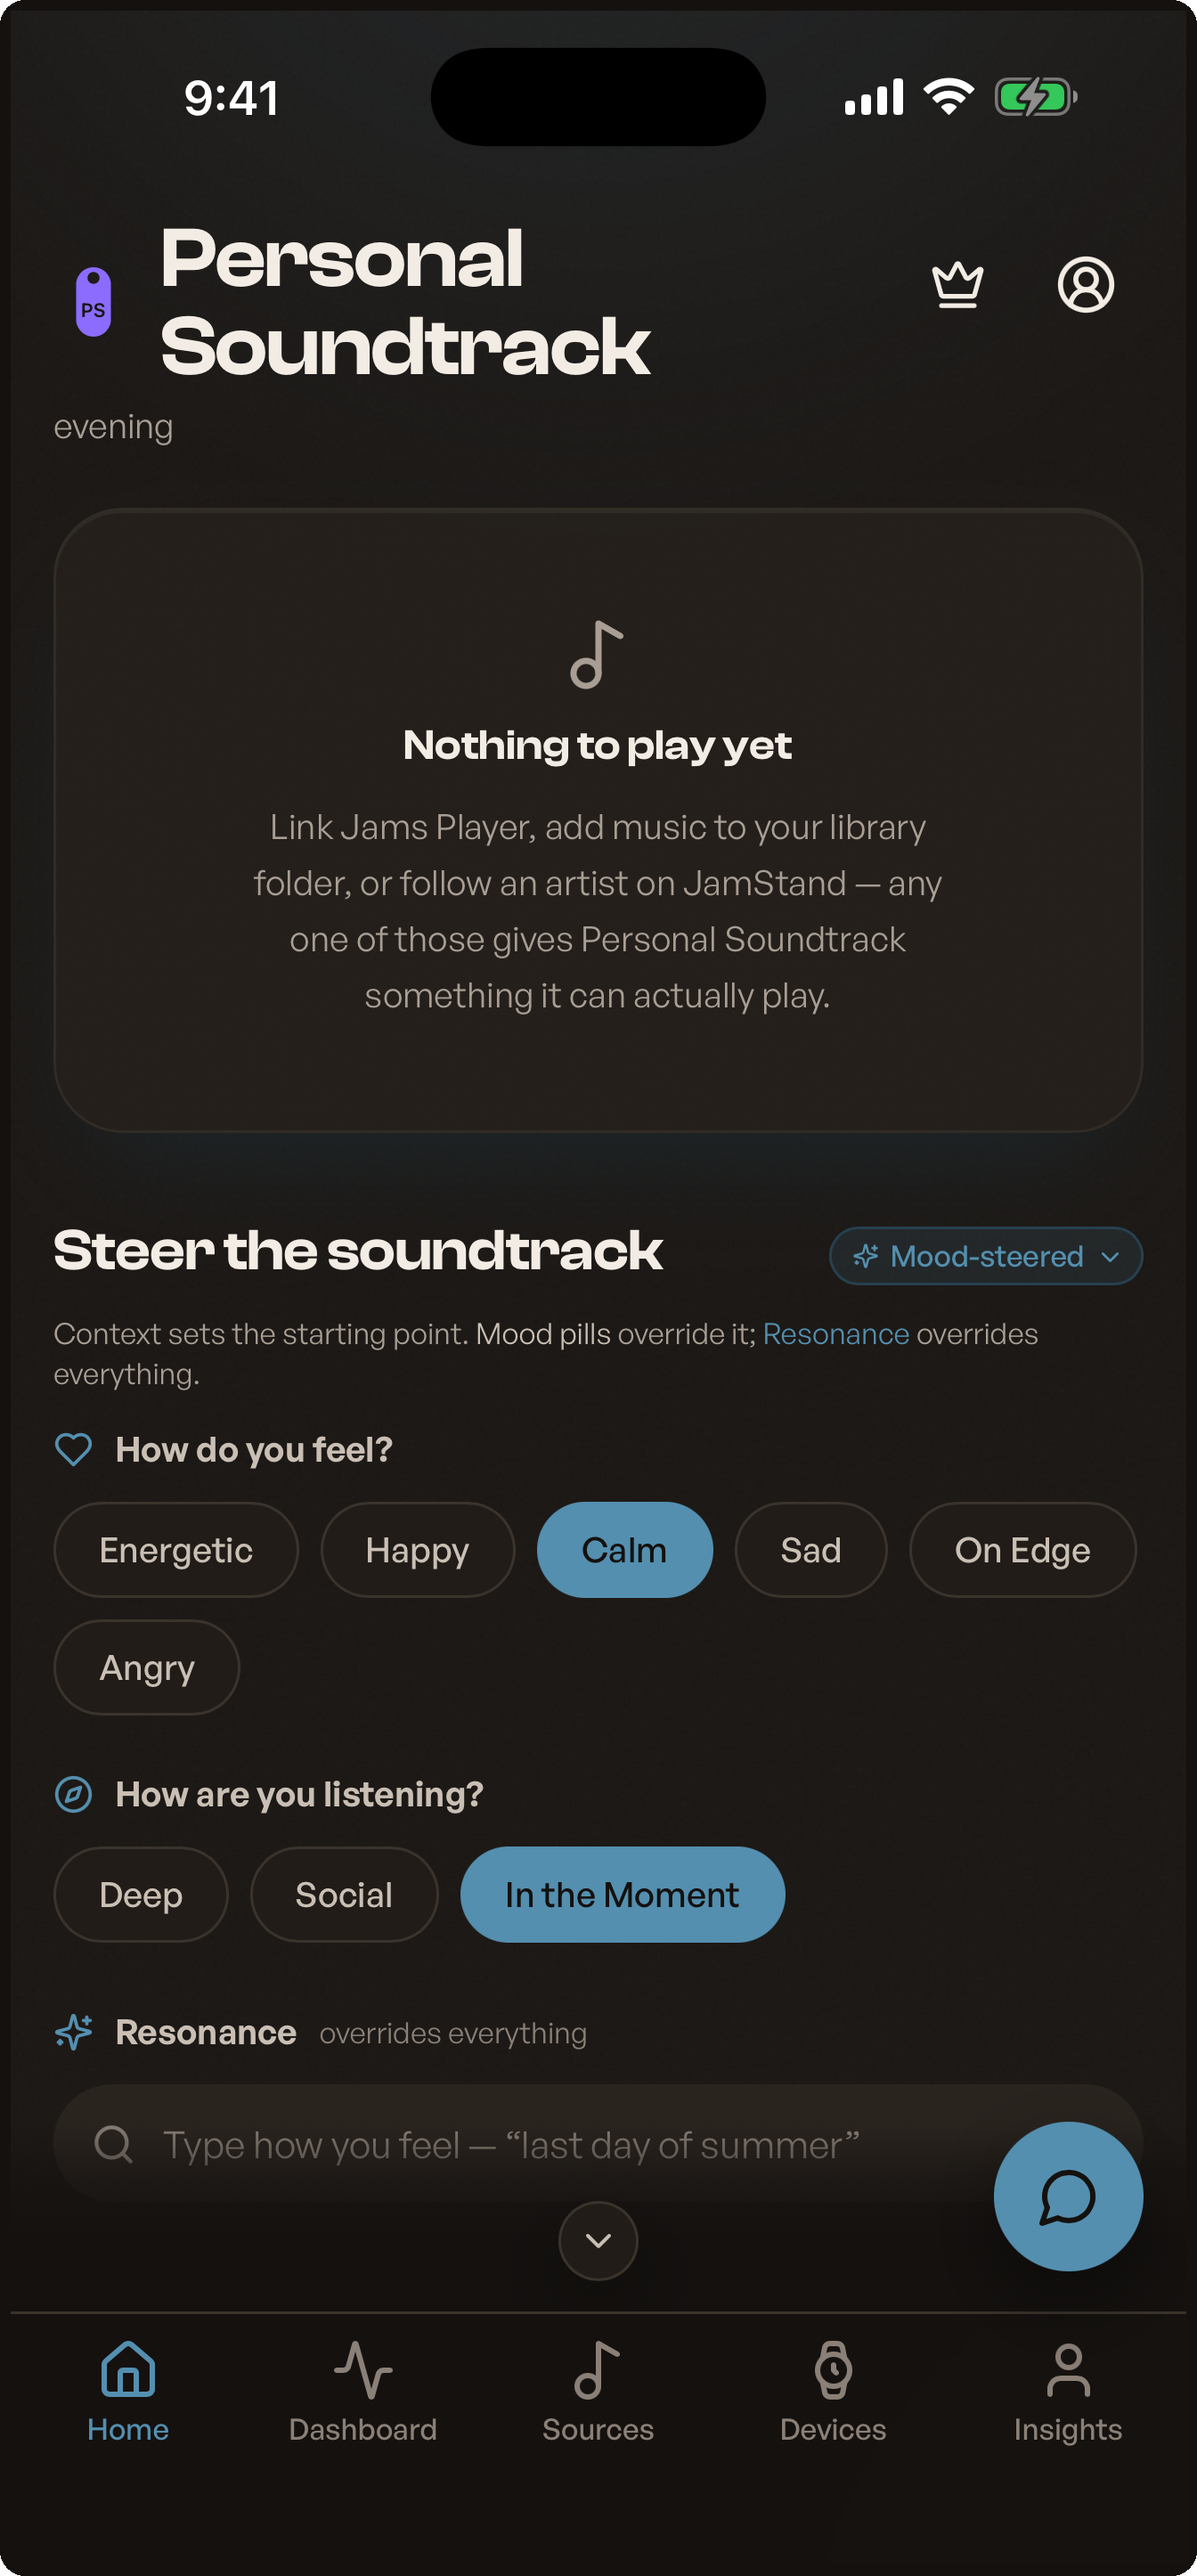
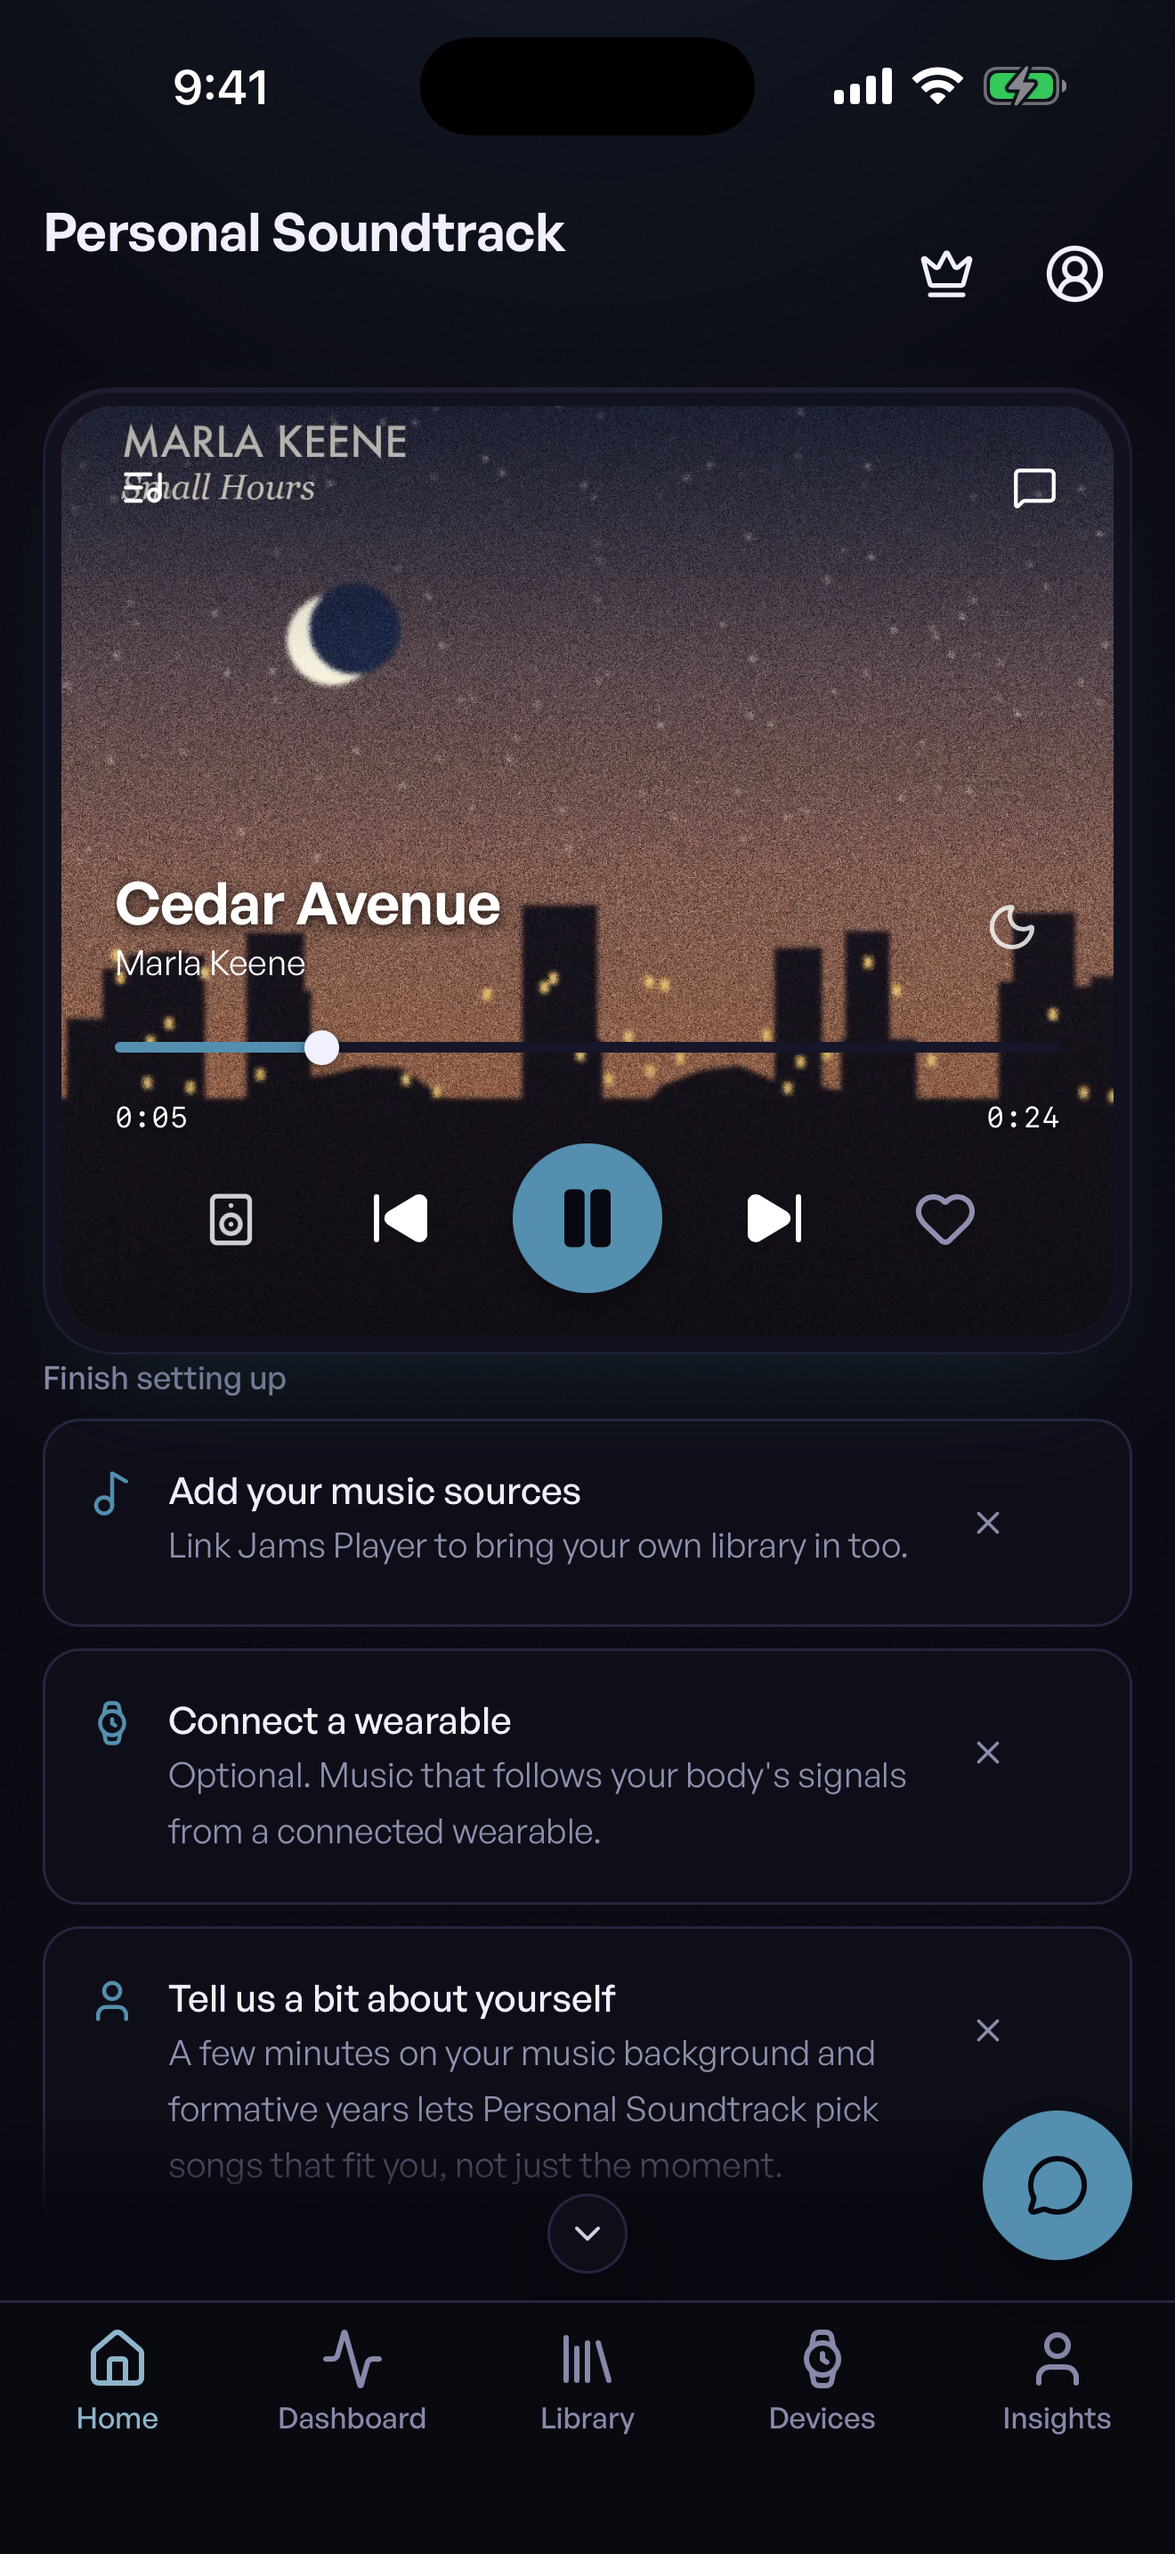
PS Home screenshot: demo song playing

diff --git a/ps/index.html b/ps/index.html
@@ -32,7 +32,7 @@
 </div></section>
 <div id="moments" class="visually-hidden"></div>
 <section class="moment"><div class="wrap moment__inner"><div class="moment__copy"><span class="eyebrow">P1</span><h3 class="moment__title">After the workout</h3><p class="moment__sentence">Just finished a run? The picks come in brighter. Recovery day? Gentler.</p></div><div class="moment__media"><figure class="slot slot--phone" data-moment="P1" data-alt="Just finished a run? The picks come in brighter. Recovery day? Gentler."><span class="slot__id">P1</span><figcaption class="slot__note">Home now playing after activity + Your Context Activity / Heart Rate rows · founder device</figcaption><span class="slot__flag">real capture from the running app, or this slot stays empty</span></figure></div></div></section>
-<section class="moment moment--flip"><div class="wrap moment__inner"><div class="moment__media"><figure class="slot slot--phone" data-moment="P2"><picture><source type="image/webp" srcset="../captures/P2-iphone-dark.webp"><img src="../captures/P2-iphone-dark.png" alt="Pick a feeling for the next hour. The soundtrack holds it." loading="lazy"></picture></figure></div><div class="moment__copy"><span class="eyebrow">P2</span><h3 class="moment__title">An hour of focus</h3><p class="moment__sentence">Pick a feeling for the next hour. The soundtrack holds it.</p></div></div></section>
+<section class="moment moment--flip"><div class="wrap moment__inner"><div class="moment__media"><figure class="slot slot--phone" data-moment="P2"><picture><source type="image/webp" srcset="../captures/P2-iphone-dark.webp"><img src="../captures/P2-iphone-dark.png" alt="Open the app and your soundtrack is right there. Add your library and a wearable whenever you like." loading="lazy"></picture></figure></div><div class="moment__copy"><span class="eyebrow">P2</span><h3 class="moment__title">Open it and it plays</h3><p class="moment__sentence">Open the app and your soundtrack is right there. Add your library and a wearable whenever you like.</p></div></div></section>
 <section class="moment"><div class="wrap moment__inner"><div class="moment__copy"><span class="eyebrow">P3</span><h3 class="moment__title">Your library, on your phone</h3><p class="moment__sentence">Bring your own music. Songs, artists and albums, searchable and sorted your way.</p></div><div class="moment__media"><figure class="slot slot--phone" data-moment="P3"><picture><source type="image/webp" srcset="../captures/P3-iphone-dark.webp"><img src="../captures/P3-iphone-dark.png" alt="Bring your own music. Songs, artists and albums, searchable and sorted your way." loading="lazy"></picture></figure></div></div></section>
 <section class="moment moment--flip"><div class="wrap moment__inner"><div class="moment__media"><figure class="slot slot--phone" data-moment="P4"><picture><source type="image/webp" srcset="../captures/P4-iphone-dark.webp"><img src="../captures/P4-iphone-dark.png" alt="Tap any song and it plays right away." loading="lazy"></picture></figure></div><div class="moment__copy"><span class="eyebrow">P4</span><h3 class="moment__title">Tap and play</h3><p class="moment__sentence">Tap any song and it plays right away.</p></div></div></section>
 <section id="scene" class="section"><div class="wrap"><span class="eyebrow">Signature interaction</span><h2 class="section__title">Set the scene</h2><p class="moment__sentence">Choose a moment and watch what the phone reads change, and the pick with it. Read on the phone.</p><div class="interaction"><div class="scene-board" data-scene-board><div class="scene-board__scenarios" role="group" aria-label="Set the scene"><button type="button" class="scene-board__scenario" data-scenario="After a run" aria-pressed="true">After a run</button><button type="button" class="scene-board__scenario" data-scenario="Focus hour" aria-pressed="false">Focus hour</button><button type="button" class="scene-board__scenario" data-scenario="Rainy evening" aria-pressed="false">Rainy evening</button></div><p class="scene-board__caption">Fixed, hand-picked example songs on this page. In the app, the readings are taken on your phone.</p><p class="scene-board__line">Now the pick is <span class="scene-board__track">Sunburnt</span> &mdash; <span class="scene-board__artist">The Saltmarsh Kids</span></p><p class="scene-board__line scene-board__line--read">What was read: <span class="scene-board__read">a run just finished, heart rate coming down, a clear evening outside.</span></p></div></div></div></section>

diff --git a/index.html b/index.html
@@ -70,7 +70,7 @@
 <h3>Set the scene. It finds the song.</h3>
 <p class="lede">Tell it where you are and how you feel, and it picks music that fits the moment, worked out on your phone, not in someone&rsquo;s cloud.</p>
 <a class="more" href="./ps/">More about Personal Soundtrack &rarr;</a></div>
-<div class="f-media"><figure class="slot slot--phone" data-moment="P2"><picture><source type="image/webp" srcset="./captures/P2-iphone-dark.webp"><img src="./captures/P2-iphone-dark.png" alt="Personal Soundtrack on iPhone: choosing the feeling for the next hour." loading="lazy"></picture></figure></div>
+<div class="f-media"><figure class="slot slot--phone" data-moment="P2"><picture><source type="image/webp" srcset="./captures/P2-iphone-dark.webp"><img src="./captures/P2-iphone-dark.png" alt="Personal Soundtrack on iPhone: the Home screen with a song playing." loading="lazy"></picture></figure></div>
 </div>
 <div class="feature flip">
 <div class="f-copy"><span class="tag" style="--a:var(--jp)"><img src="./marks/jp.30a206e2.svg" alt="" width="22" height="22">Jams Player</span>
